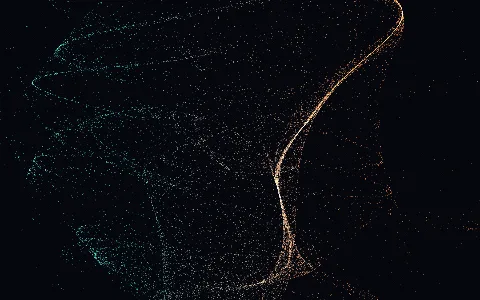
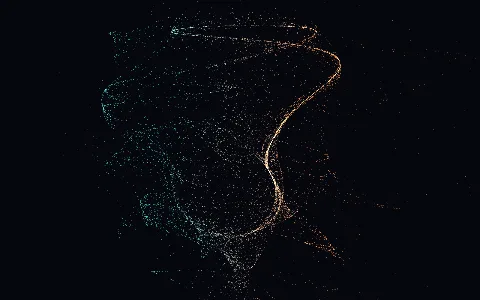
feat: 3D depth for attractor-image maps + Decaying Spiral funnel-coil (v0.1.43)
- Iterated maps: attractor-image maps (Clifford, de Jong, Svensson, Hopalong, Gumowski–Mira, Bedhead, King's Dream, Sprott Quadratic, Duffing, Gingerbreadman, Martin) now drape over a 3D height-field relief (z = depth·sin(F·x)·sin(F·y) in render space) so orbiting reveals real dimensionality. Mirrored across the CPU (iteratedMap.ts) and GPU (gpuMap.ts) twins, so the face-on X-Y image is unchanged.
- Left authentically flat (FLAT_MAPS denylist): Hénon, Lozi, Chirikov Standard, Zaslavsky, Tinkerbell, Ikeda, and the six symmetric icons — their fractal banding / N-fold symmetry is only meaningful in the plane. Pickover stays true-3D.
- Decaying Spiral: rebuilt as a genuine 3D logarithmic funnel-coil (uniform turns, exponentially-decaying radius, climbing height) instead of a flat comet; doc + params (turns/decay/climb) updated.
- Thumbnail capture: ?capture=thumbs&only= now accepts a comma-separated id list. Recaptured the 12 changed systems.
- APP_VERSION → 0.1.43.

diff --git a/src/ui/learn/docs.parametric.ts b/src/ui/learn/docs.parametric.ts
@@ -1624,49 +1624,22 @@ point(r*st*Math.cos(phi), r*Math.cos(theta), r*st*Math.sin(phi));`,
   decaySpiral: {
     title: 'Decaying Spiral',
     about:
-      'A single curve that starts as a wide, lazy coil sitting at the origin and slowly unwinds into a tight thread as it travels outward — the loops shrinking the further they get, like a spring being stretched while it spins. The whole figure rides a straight diagonal baseline, so the early big loops cluster in one corner and the curve tapers off toward the far corner. It is the path of a point circling a moving centre while its orbit radius decays.',
+      'A genuine 3D funnel-coil: a point winds a fixed number of turns around a vertical axis while its orbit radius decays exponentially and it climbs in height. The result is a logarithmic spiral pulled into the third dimension — wide, lazy loops at the base that tighten into a fine thread at the apex, like a spring wound into a horn. Orbit it to see the depth.',
     howItWorks:
-      'A base point marches up the diagonal line y = x as the parameter T grows, and onto it we add a small circular wobble of radius 1/T. Because that radius falls off as 1/T, the wobble is large and obvious when T is small (the fat coil near the origin) and almost invisible when T is large (the tight thread). The winding count k sets how many times the wobble circles per unit of T. To give the early, visually busy loops plenty of points, T is sampled logarithmically — equal steps in the curve parameter map to a geometric progression in T. The closed path is swept into a glowing tube, laid in the camera-facing X–Y plane with a faint z-ripple for depth, and recentred on the bounding-box midpoint.',
+      'As the curve parameter u runs 0 → 1, three things happen at once: the winding angle φ sweeps a fixed number of turns (φ = turns·2π·u), the radius decays exponentially (ρ = R₀·e^(−decay·u), so it loses a constant fraction of its width per turn — the signature of a logarithmic spiral), and the height climbs linearly (y = climb·(u − ½)). The point therefore spirals around the vertical axis, tightening as it rises into a funnel/horn. The closed-form curve is swept into a glowing tube; it is unconditionally bounded (every term is bounded) and needs no special framing — the default 3/4 camera shows the coil standing in space.',
     equations: [
-      {
-        label: 'logarithmic time map',
-        latex: 'T(t) = T_{\\min}\\,\\exp\\!\\Big(\\tfrac{t}{2\\pi}\\,\\ln\\tfrac{T_{\\max}}{T_{\\min}}\\Big),\\quad t\\in[0,2\\pi]'
-      },
-      {
-        label: 'x component',
-        latex: 'x = T + \\dfrac{\\cos(kT)}{T}'
-      },
-      {
-        label: 'y component',
-        latex: 'y = T + \\dfrac{\\sin(kT)}{T}'
-      },
-      {
-        label: 'decaying orbit radius',
-        latex: 'a(T) = \\dfrac{1}{T}\\ \\longrightarrow\\ 0\\quad\\text{as }T\\text{ grows}'
-      },
-      {
-        label: 'vertical ripple',
-        latex: 'z = \\ell\\,\\sin\\!\\big(\\tfrac{1}{2}kT\\big)'
-      }
+      { label: 'winding angle (uniform turns)', latex: '\\varphi(u) = \\text{turns}\\cdot 2\\pi\\,u,\\quad u\\in[0,1]' },
+      { label: 'exponentially-decaying radius', latex: '\\rho(u) = R_0\\,e^{-\\text{decay}\\cdot u}' },
+      { label: 'height (climb)', latex: 'y(u) = \\text{climb}\\,(u - \\tfrac12)' },
+      { label: 'curve', latex: 'C(u) = \\big(\\rho\\cos\\varphi,\\ y,\\ \\rho\\sin\\varphi\\big)' }
     ],
     params: [
-      {
-        key: 'freq',
-        symbol: 'k',
-        meaning: 'winding rate — how many times the curve loops around its moving centre per unit of T (more = a finer, busier coil)'
-      },
-      {
-        key: 'lift',
-        symbol: '\\ell',
-        meaning: 'amplitude of the vertical (z) ripple that lifts the flat spiral into a gently undulating 3D ribbon'
-      },
-      {
-        key: 'tube',
-        symbol: '\\rho',
-        meaning: 'radius of the glowing tube swept along the curve'
-      }
+      { key: 'turns', symbol: 'N', meaning: 'how many full turns the coil winds from base to apex' },
+      { key: 'decay', symbol: '\\kappa', meaning: 'exponential radius-decay rate — higher tightens the funnel faster' },
+      { key: 'climb', symbol: 'h', meaning: 'total height of the coil (how tall the funnel stands)' },
+      { key: 'tube', symbol: '\\rho', meaning: 'radius of the glowing tube swept along the curve' }
     ],
-    code: "const TMIN = 0.2, TMAX = 20, k = p.freq, lift = p.lift;\nconst LT = Math.log(TMAX / TMIN);\nconst C = (t) => {\n  const T = TMIN * Math.exp((t / (2*Math.PI)) * LT); // log-time sampling\n  const amp = 1 / T;                                  // orbit radius decays as 1/T\n  return [T + Math.cos(k*T)*amp, T + Math.sin(k*T)*amp, lift*Math.sin(0.5*k*T)];\n};\n// C(t) over t∈[0,2π]; swept into a glowing tube (centred on its bbox midpoint)",
+    code: "const R0 = 1.15, turns = p.turns, decay = p.decay, climb = p.climb;\nconst W = turns * 2*Math.PI;\nconst C = (t) => {\n  const u = t / (2*Math.PI);              // u in [0,1] along the coil\n  const rho = R0 * Math.exp(-decay * u);  // radius decays exponentially\n  const phi = W * u;                       // uniform winding\n  return [rho*Math.cos(phi), climb*(u-0.5), rho*Math.sin(phi)];\n};\n// swept into a glowing tube — a 3D logarithmic funnel-coil",
     links: [
       {
         label: 'Logarithmic spiral (Wikipedia)',

diff --git a/src/archetypes/parametric.ts b/src/archetypes/parametric.ts
@@ -1026,31 +1026,33 @@ export const PARAMETRIC_SYSTEMS: Record<string, ParamSurface> = {
     },
   },
   decaySpiral: {
-    id: 'decaySpiral', label: 'Decaying Spiral', defaultParticleCount: 160_000, scale: 0.12, pointSize: 0.006,
+    id: 'decaySpiral', label: 'Decaying Spiral', defaultParticleCount: 160_000, scale: 1.25, pointSize: 0.008,
     params: [
-      { key: 'freq', label: 'winding k', min: 4, max: 30, step: 1, default: 16 },
-      { key: 'lift', label: '3D lift', min: 0, max: 0.6, step: 0.01, default: 0.22 },
+      { key: 'turns', label: 'turns', min: 3, max: 20, step: 1, default: 9 },
+      { key: 'decay', label: 'radius decay', min: 0.5, max: 4, step: 0.05, default: 2.2 },
+      { key: 'climb', label: 'height', min: 0.5, max: 3, step: 0.05, default: 1.6 },
       { key: 'tube', label: 'thickness', min: 0.01, max: 0.08, step: 0.005, default: 0.03 },
     ],
-    // γ(t) = (t + cos(kt)/t, t + sin(kt)/t), t∈[0.2,20]: a 1/t-decaying circular oscillation riding the
-    // diagonal baseline y=x — a wide coil near the origin that unwinds into a tight thread along y=x.
-    // A z-ripple synced to the winding lifts the ribbon out of the plane into a 3D corrugated coil
-    // (default lift raised so it reads dimensional at rest). t is remapped LOGARITHMICALLY for dense loops.
+    // A genuine 3D decaying spiral: a logarithmic funnel-coil. The point winds a fixed number of `turns`
+    // around a vertical axis while its radius decays EXPONENTIALLY (ρ = R₀·e^(−decay·u)) and it climbs in
+    // y — wide loose loops at the base tightening to a thread at the apex. Swept into a glowing tube.
     position: (i, n, p, out, o) => {
-      const TMIN = 0.2, TMAX = 20, CX = 7.6, CY = 8.4, k = p.freq, lift = p.lift;
-      const LT = Math.log(TMAX / TMIN);
+      const R0 = 1.15, turns = p.turns, decay = p.decay, climb = p.climb;
+      const W = turns * TAU; // total winding angle
       sweepTube(i, n, p.tube, out, o, (t) => {
-        const T = TMIN * Math.exp((t / TAU) * LT);
-        const amp = 1 / T;
-        return [T + Math.cos(k * T) * amp - CX, T + Math.sin(k * T) * amp - CY, lift * Math.sin(k * T) * (1 + amp)];
+        const u = t / TAU; // ∈ [0,1] along the coil
+        const rho = R0 * Math.exp(-decay * u);
+        const phi = W * u;
+        return [rho * Math.cos(phi), climb * (u - 0.5), rho * Math.sin(phi)];
       }, (t) => {
-        const T = TMIN * Math.exp((t / TAU) * LT);
-        const amp = 1 / T, amp2 = 1 / (T * T);
-        // dC/dT (sweepTube normalizes, so the dT/dt log factor drops out)
+        const u = t / TAU;
+        const rho = R0 * Math.exp(-decay * u);
+        const phi = W * u;
+        // dC/du (sweepTube normalises): ρ' = −decay·ρ, φ' = W, y' = climb
         return [
-          1 - k * Math.sin(k * T) * amp - Math.cos(k * T) * amp2,
-          1 + k * Math.cos(k * T) * amp - Math.sin(k * T) * amp2,
-          lift * (k * Math.cos(k * T) * (1 + amp) - Math.sin(k * T) * amp2),
+          -decay * rho * Math.cos(phi) - rho * W * Math.sin(phi),
+          climb,
+          -decay * rho * Math.sin(phi) + rho * W * Math.cos(phi),
         ];
       });
     },

diff --git a/src/archetypes/iteratedMap.ts b/src/archetypes/iteratedMap.ts
@@ -31,7 +31,17 @@ export interface MapSystem {
   center: [number, number, number];
   pointSize: number;
   dt: number; // accumulator pacing only
+  depth?: number; // 2D maps only: opt-in 3D relief amplitude — drapes the attractor over a height field
 }
+
+const DEPTH_FREQ = 1.7; // spatial frequency of the 3D relief the depth-maps drape over (render space)
+// Canonical-2D maps that MUST stay flat: strange-attractor phase portraits whose fractal banding /
+// stochastic-web structure is only meaningful in the plane, and the symmetric icons (read by N-fold
+// symmetry face-on). Every OTHER 2D map is an attractor-image that gains a tasteful 3D relief drape.
+const FLAT_MAPS = new Set([
+  'tinkerbell', 'ikeda', 'henon', 'lozi', 'standard', 'zaslavsky',
+  'icon-sanddollar', 'icon-trinity', 'icon-pentagram', 'icon-hexagon', 'icon-heptagon', 'icon-clamshell',
+]);
 
 function autoParams(defaults: Record<string, number>): ParamSpec[] {
   return Object.entries(defaults).map(([key, v]) => {
@@ -52,6 +62,7 @@ interface MapSpec {
   bounds: { x: [number, number]; y: [number, number]; z?: [number, number] };
   spread?: number;
   pointSize?: number;
+  depth?: number; // 2D maps: opt-in 3D relief (attractor-image maps get it; canonical phase portraits don't)
 }
 
 function makeMap(o: MapSpec): MapSystem {
@@ -71,6 +82,7 @@ function makeMap(o: MapSpec): MapSystem {
     center: [mid(o.bounds.x), mid(o.bounds.y), o.bounds.z ? mid(o.bounds.z) : 0],
     pointSize: o.pointSize ?? 0.01,
     dt: 0.004,
+    depth: dim > 2 ? undefined : (o.depth ?? (FLAT_MAPS.has(o.id) ? 0 : 0.5)),
   };
 }
 
@@ -193,6 +205,7 @@ class IteratedMapArchetype implements Archetype {
     const { state, positions, dim, system } = this;
     const [cx, cy, cz] = system.center;
     const s = system.scale;
+    const depth = system.depth ?? 0;
     const n = this.particleCount;
     for (let i = 0; i < n; i++) {
       const so = i * dim;
@@ -201,9 +214,13 @@ class IteratedMapArchetype implements Archetype {
       if (!Number.isFinite(state[so]) || !Number.isFinite(state[so + 1])) {
         for (let k = 0; k < dim; k++) state[so + k] = system.init[k];
       }
-      positions[po] = (state[so] - cx) * s;
-      positions[po + 1] = (state[so + 1] - cy) * s;
-      positions[po + 2] = dim > 2 ? (state[so + 2] - cz) * s : 0;
+      const X = (state[so] - cx) * s;
+      const Y = (state[so + 1] - cy) * s;
+      positions[po] = X;
+      positions[po + 1] = Y;
+      // dim-3 maps use their own z; flat 2D maps optionally drape over a height field so orbiting reveals
+      // depth (the face-on X-Y image is unchanged). Canonical phase portraits leave depth unset → stay flat.
+      positions[po + 2] = dim > 2 ? (state[so + 2] - cz) * s : (depth ? depth * Math.sin(DEPTH_FREQ * X) * Math.sin(DEPTH_FREQ * Y) : 0);
     }
   }
 

diff --git a/src/gpu/gpuMap.ts b/src/gpu/gpuMap.ts
@@ -18,6 +18,14 @@ interface GpuMapSystem {
   pointSize: number;
 }
 
+const DEPTH_FREQ = 1.7; // 3D relief frequency — MUST match iteratedMap.ts DEPTH_FREQ (CPU/GPU twins)
+const DEPTH_AMP = 0.5; // relief amplitude for attractor-image maps
+// Maps that stay FLAT (no relief) — must match iteratedMap.ts FLAT_MAPS + pickover (already true-3D).
+const GPU_FLAT = new Set([
+  'tinkerbell', 'ikeda', 'henon', 'lozi', 'standard', 'zaslavsky', 'pickover',
+  'icon-sanddollar', 'icon-trinity', 'icon-pentagram', 'icon-hexagon', 'icon-heptagon', 'icon-clamshell',
+]);
+
 export const GPU_MAPS: Record<string, GpuMapSystem> = {
   clifford: {
     paramKeys: ['a', 'b', 'c', 'd'], defaults: { a: -1.4, b: 1.7, c: 1, d: 0.7 },
@@ -261,7 +269,7 @@ export const GPU_MAPS: Record<string, GpuMapSystem> = {
   },
 };
 
-function buildGpuMap(sys: GpuMapSystem, count: number): GpuSim {
+function buildGpuMap(sys: GpuMapSystem, count: number, depth: number): GpuSim {
   const pos: GpuNode = attributeArray(count, 'vec3');
   const u: Record<string, GpuNode> = {};
   for (const k of sys.paramKeys) u[k] = uniform(sys.defaults[k]);
@@ -289,7 +297,12 @@ function buildGpuMap(sys: GpuMapSystem, count: number): GpuSim {
   material.depthWrite = false;
   material.blending = THREE.AdditiveBlending;
   material.opacity = 0.85;
-  material.positionNode = attr.sub(vec3(c[0], c[1], c[2])).mul(sys.scale);
+  const rp = attr.sub(vec3(c[0], c[1], c[2])).mul(sys.scale).toVar();
+  // attractor-image maps drape over a 3D relief (z = depth·sin(F·x)·sin(F·y)); mirrors the CPU twin
+  // exactly so the face-on X-Y image is identical. Flat maps (depth=0) keep z from iterate().
+  material.positionNode = depth > 0
+    ? vec3(rp.x, rp.y, rp.x.mul(DEPTH_FREQ).sin().mul(rp.y.mul(DEPTH_FREQ).sin()).mul(float(depth)))
+    : rp;
   material.colorNode = mix(color(0x4ad6c8), color(0xff8a4a), attr.x.mul(0.3).add(0.5).clamp(0, 1));
 
   const geometry = new THREE.BufferGeometry();
@@ -317,5 +330,6 @@ function buildGpuMap(sys: GpuMapSystem, count: number): GpuSim {
 
 export function makeGpuMap(id: string): GpuFactory {
   const sys = GPU_MAPS[id];
-  return (count) => buildGpuMap(sys, count);
+  const depth = GPU_FLAT.has(id) ? 0 : DEPTH_AMP; // attractor-image maps get relief; canonical/3D stay flat
+  return (count) => buildGpuMap(sys, count, depth);
 }

diff --git a/src/meta/changelog.ts b/src/meta/changelog.ts
@@ -18,6 +18,18 @@ export interface Release {
 
 export const RELEASES: Release[] = [
   {
+    "version": "0.1.43",
+    "date": "2026-06-28",
+    "title": "Maps gain depth + Decaying Spiral reborn",
+    "summary": "The attractor-image iterated maps now drape over a 3D relief so orbiting reveals real dimensionality, and the Decaying Spiral is rebuilt as a true 3D logarithmic funnel-coil. Canonical phase portraits (Hénon, Ikeda, the symmetric icons…) stay authentically flat.",
+    "newSystems": [],
+    "notes": [
+      "Iterated maps: Clifford, de Jong, Svensson, Hopalong, Gumowski–Mira, Bedhead, King's Dream, Sprott Quadratic, Duffing, Gingerbreadman, Martin now drape over a 3D height-field relief (CPU + GPU twins); the face-on image is unchanged",
+      "Left authentically 2D: Hénon, Lozi, Chirikov Standard, Zaslavsky, Tinkerbell, Ikeda, and the symmetric icons (their structure is only meaningful in the plane)",
+      "Decaying Spiral: rebuilt as a genuine 3D logarithmic funnel-coil (uniform turns, exponentially-decaying radius, climbing) instead of a flat comet"
+    ]
+  },
+  {
     "version": "0.1.42",
     "date": "2026-06-28",
     "title": "3D depth + fixes",

diff --git a/src/app/bootstrap.ts b/src/app/bootstrap.ts
@@ -703,10 +703,11 @@ export async function bootstrap(canvas: HTMLCanvasElement): Promise<Engine> {
         camera.aspect = cw / ch;
         camera.updateProjectionMatrix();
       }
-      const only = new URLSearchParams(location.search).get('only'); // ?capture=thumbs&only=<id> → just one
+      const only = new URLSearchParams(location.search).get('only'); // ?capture=thumbs&only=<id>[,<id>…] → subset
+      const onlySet = only ? new Set(only.split(',')) : null;
       const ids = listFactories()
         .map((f) => f.id)
-        .filter((id) => !only || id === only);
+        .filter((id) => !onlySet || onlySet.has(id));
       // Wait for the queued (microtask) rebuild swap AND the async GPU setup to finish, so stepFrame
       // drives the right path (raymarch / GPU compute / CPU) against a fully-built system.
       const settle = async (): Promise<void> => {

diff --git a/src/version.ts b/src/version.ts
@@ -2,4 +2,4 @@
 // image records the version that produced it). Bump the PATCH on every shipped change — new
 // systems, features, or any change to the snapshot/import file format or its validation — even
 // when backward-compatible. Bump MINOR for larger feature waves, MAJOR for breaking format changes.
-export const APP_VERSION = '0.1.42';
+export const APP_VERSION = '0.1.43';
